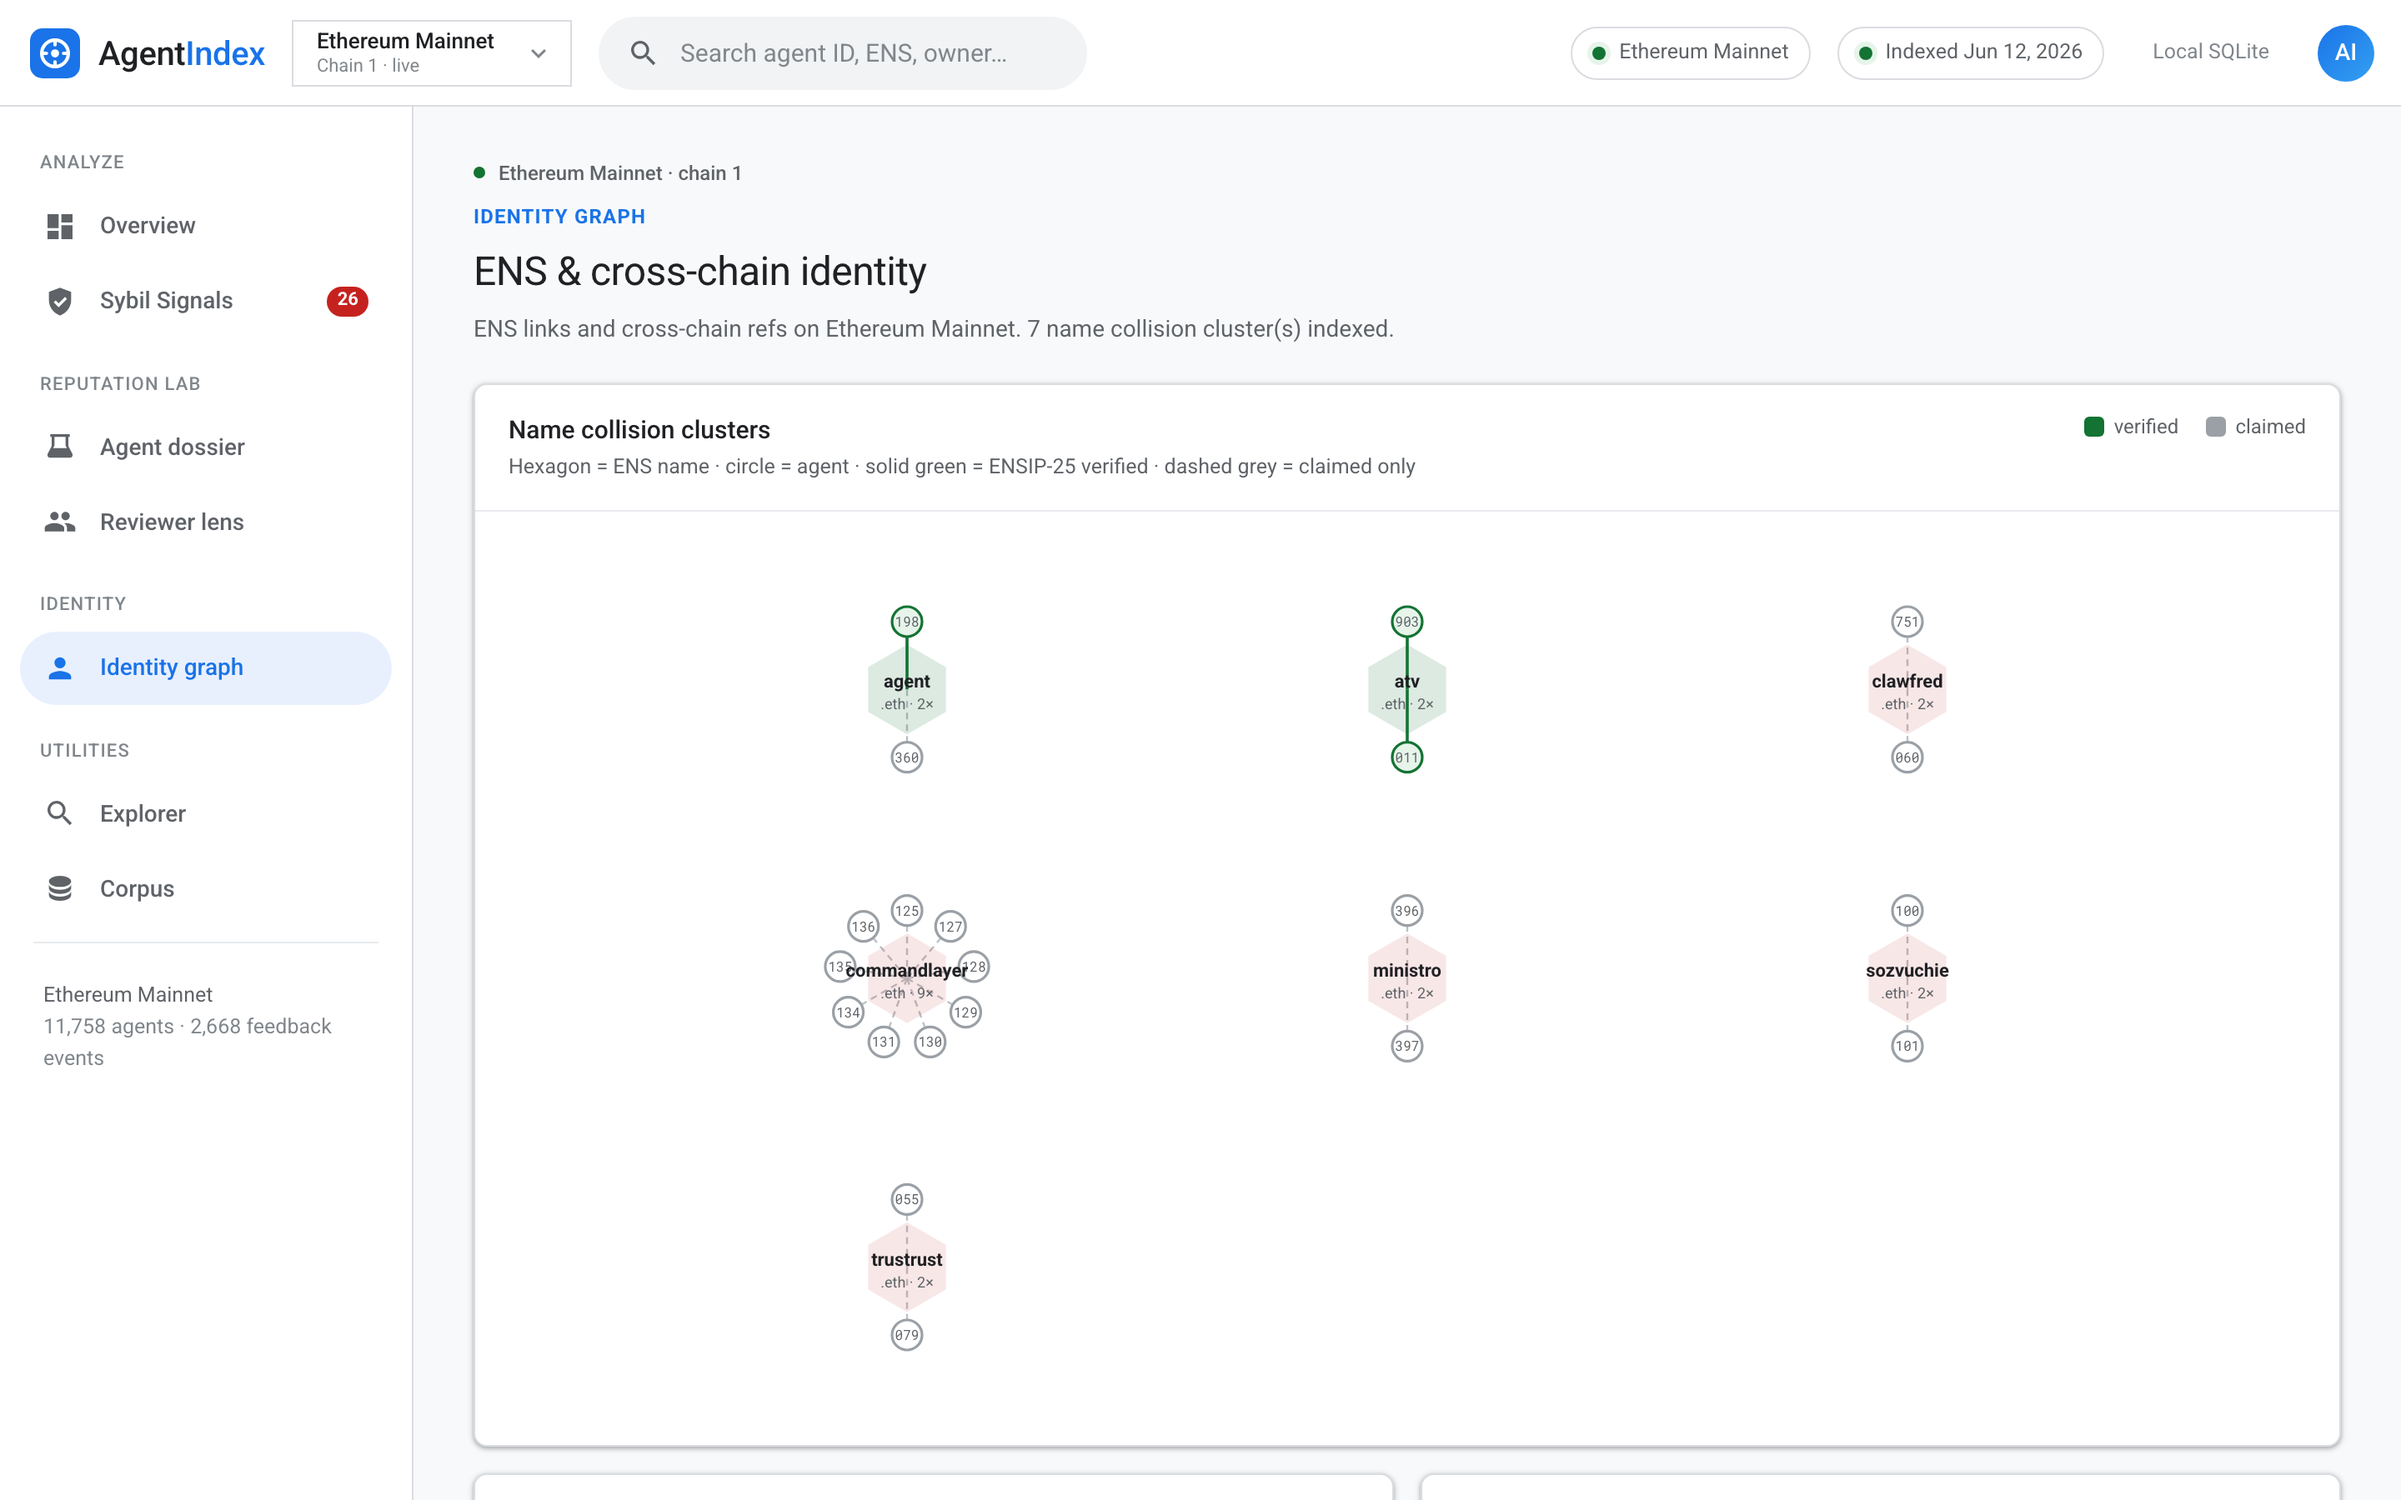
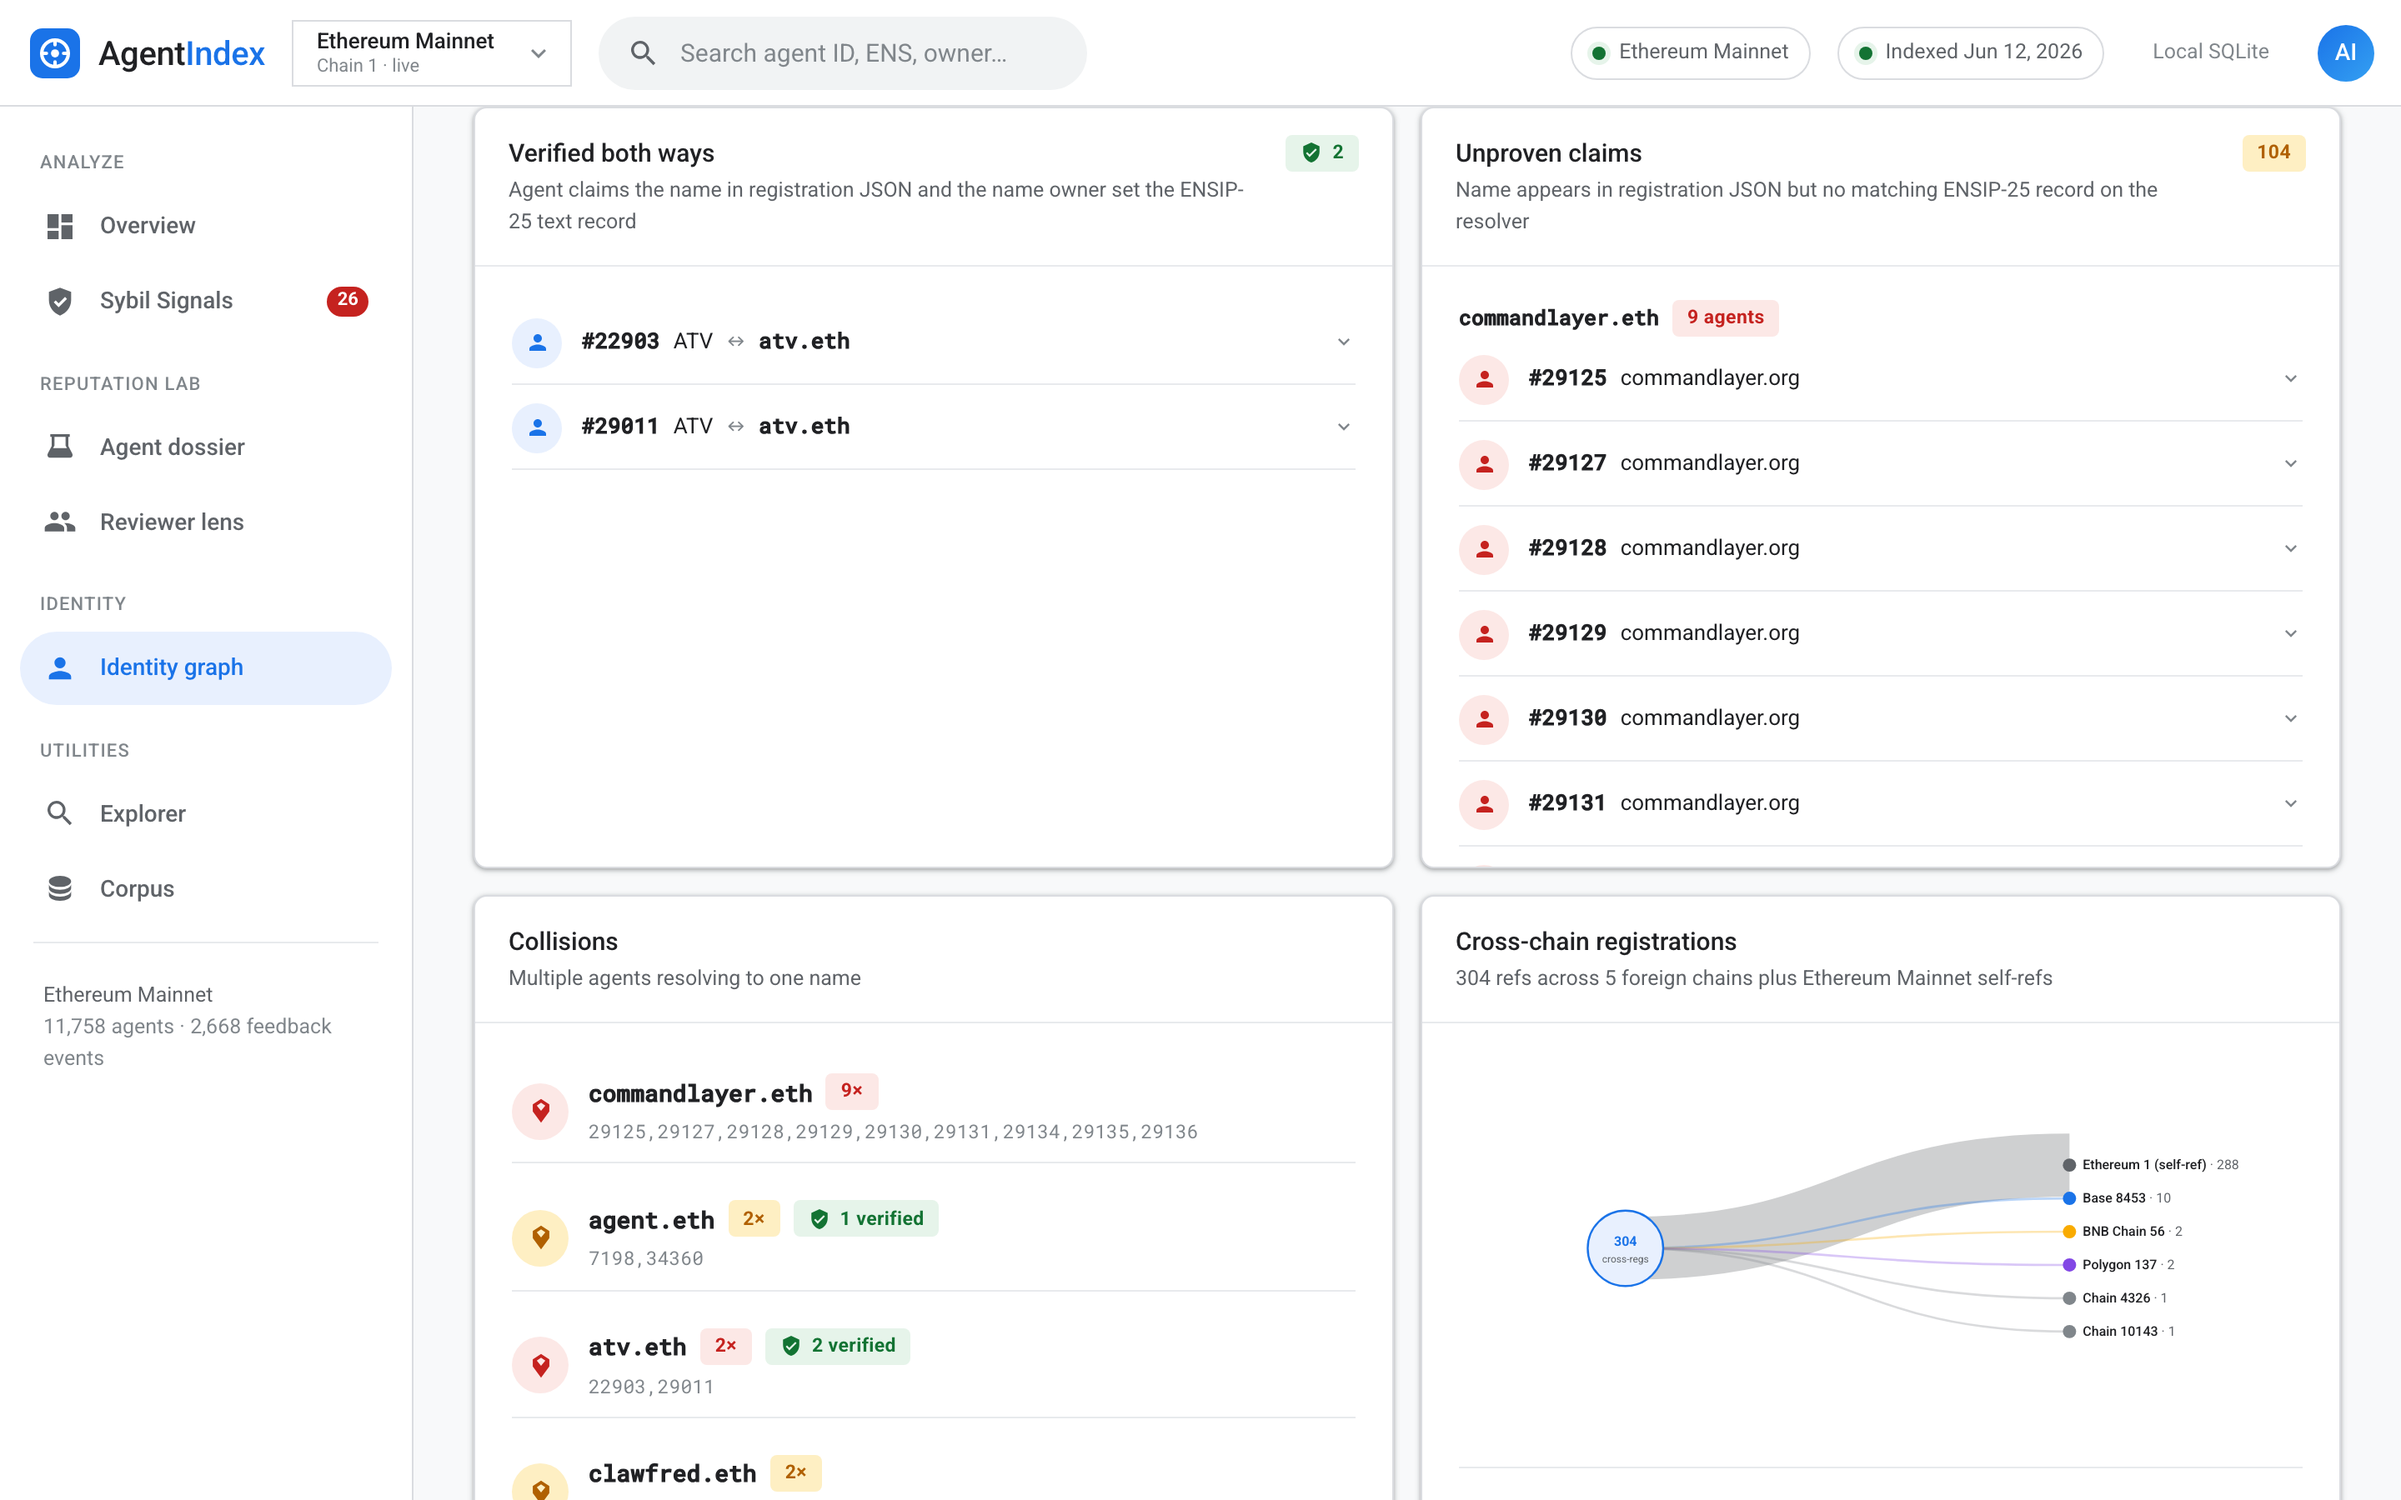
Add proven and unproven ENS claim panels to Identity graph.
Surface bidirectional ENSIP-25 verification alongside JSON-only claims so spray patterns like commandlayer.eth are visible at a glance.

diff --git a/frontend/screen_identity.jsx b/frontend/screen_identity.jsx
@@ -1,10 +1,57 @@
 /* ============================================================
    AgentIndex: Identity Graph (ENS collisions + cross-chain)
    ============================================================ */
+function EnsLinkRow({agentId, ensName, tone, showEns=true}){
+  const agent = AX.agentById[agentId];
+  const name = agent?.name;
+  return (<div className="flex aic gap12 ens-link-row" style={{padding:'9px 0',borderBottom:'1px solid var(--hairline)',cursor:'pointer'}}
+    onClick={()=>window.AXNAV('dossier',{agent:agentId})}>
+    <div className={'sig-ico sev-'+(tone||'med')} style={{width:30,height:30,flex:'0 0 30px'}}><Icon name="identity" size={15}/></div>
+    <div style={{flex:1,minWidth:0}}>
+      <div className="flex aic gap8 flex-wrap">
+        <span className="mono" style={{fontWeight:700,fontSize:13}}>#{agentId}</span>
+        {name&&<span style={{fontSize:13}}>{name}</span>}
+        {showEns&&<>
+          <span className="faint" style={{fontSize:12}}>↔</span>
+          <span className="mono" style={{fontWeight:600,fontSize:13}}>{ensName}</span>
+        </>}
+      </div>
+    </div>
+    <Icon name="chevron" size={14} className="faint"/>
+  </div>);
+}
+
+function EnsProvenLinks({links}){
+  if(!links.length) return <div className="muted" style={{fontSize:13}}>No agent/name pairs with both a JSON claim and an ENSIP-25 resolver record in this corpus.</div>;
+  return (<div className="col">
+    {links.map(l=><EnsLinkRow key={l.agent_id+'-'+l.ens_name} agentId={l.agent_id} ensName={l.ens_name} tone="low"/>)}
+  </div>);
+}
+
+function EnsUnprovenClaims({claims}){
+  if(!claims.length) return <div className="muted" style={{fontSize:13}}>Every ENS claim in registration JSON has a matching resolver record.</div>;
+  const byName = claims.reduce((m,c)=>{ (m[c.ens_name]=m[c.ens_name]||[]).push(c); return m; },{});
+  const groups = Object.entries(byName).sort((a,b)=> b[1].length - a[1].length || a[0].localeCompare(b[0]));
+  return (<div className="col gap8">
+    {groups.map(([ensName, rows])=>{
+      const spray = rows.length >= 3;
+      return (<div key={ensName}>
+        <div className="flex aic gap8 mb4">
+          <span className="mono" style={{fontWeight:700,fontSize:12.5}}>{ensName}</span>
+          <Tag tone={spray?'red':'amber'}>{rows.length} agent{rows.length>1?'s':''}</Tag>
+        </div>
+        {rows.map(r=><EnsLinkRow key={r.agent_id} agentId={r.agent_id} ensName={ensName} tone={spray?'high':'med'} showEns={false}/>)}
+      </div>);
+    })}
+  </div>);
+}
+
 function ScreenIdentity(){
   const cols = AX.D.ens_name_collisions.slice().sort((a,b)=> b.agent_ids.split(',').length - a.agent_ids.split(',').length);
   const narr = AX.identityNarr || {};
   const callouts = narr.callouts || [];
+  const proven = narr.proven_links || [];
+  const unproven = narr.unproven_claims || [];
 
   return (<div className="view">
     <div className="page-head">
@@ -23,6 +70,23 @@ function ScreenIdentity(){
         </div>}/>
       <div className="card-pad"><IdentityGraph height={520}/></div>
     </Card>
+
+    <div className="grid mb16" style={{gridTemplateColumns:'1fr 1fr'}}>
+      <Card>
+        <CardHead title="Verified both ways"
+          sub="Agent claims the name in registration JSON and the name owner set the ENSIP-25 text record"
+          right={<Tag tone="green" icon="verified">{narr.proven_count ?? proven.length}</Tag>}/>
+        <div className="card-pad"><EnsProvenLinks links={proven}/></div>
+      </Card>
+      <Card>
+        <CardHead title="Unproven claims"
+          sub="Name appears in registration JSON but no matching ENSIP-25 record on the resolver"
+          right={<Tag tone="amber">{narr.unproven_count ?? unproven.length}</Tag>}/>
+        <div className="card-pad" style={{maxHeight:360,overflowY:'auto'}}>
+          <EnsUnprovenClaims claims={unproven}/>
+        </div>
+      </Card>
+    </div>
 
     <div className="grid" style={{gridTemplateColumns:'1fr 1fr'}}>
       <Card>

diff --git a/src/agentindex/frontend/corpus.py b/src/agentindex/frontend/corpus.py
@@ -147,6 +147,36 @@ def ens_name_collisions(conn: sqlite3.Connection) -> list[dict[str, Any]]:
     ]
 
 
+def ens_proven_links(conn: sqlite3.Connection) -> list[dict[str, Any]]:
+    """Agent/name pairs with JSON claim and ENSIP-25 resolver text record."""
+    return [
+        dict(r)
+        for r in conn.execute(
+            """
+            SELECT agent_id, ens_name
+            FROM ens_links
+            WHERE verified=1 AND claimed=1
+            ORDER BY ens_name, agent_id
+            """
+        )
+    ]
+
+
+def ens_unproven_claims(conn: sqlite3.Connection) -> list[dict[str, Any]]:
+    """Claimed in registration JSON but no ENSIP-25 back-link on the resolver."""
+    return [
+        dict(r)
+        for r in conn.execute(
+            """
+            SELECT agent_id, ens_name
+            FROM ens_links
+            WHERE claimed=1 AND verified=0
+            ORDER BY ens_name, agent_id
+            """
+        )
+    ]
+
+
 def review_graph_edges(conn: sqlite3.Connection, *, limit: int = 200) -> list[dict[str, Any]]:
     return [
         dict(r)
@@ -385,6 +415,8 @@ def load_raw_bundle(
         "owner_concentration": owner_concentration(conn),
         "reviewer_profiles": reviewer_profiles(conn),
         "ens_name_collisions": ens_name_collisions(conn),
+        "ens_proven_links": ens_proven_links(conn),
+        "ens_unproven_claims": ens_unproven_claims(conn),
         "review_graph_edges": review_graph_edges(conn),
         "spotlight_agents": build_spotlight_agents(conn),
         "explorer_agents": explorer_agent_entries(conn),

diff --git a/src/agentindex/frontend/analytics.py b/src/agentindex/frontend/analytics.py
@@ -1000,6 +1000,9 @@ def build_identity_narratives(
         fields=("text",),
     )
 
+    proven = raw.get("ens_proven_links") or []
+    unproven = raw.get("ens_unproven_claims") or []
+
     return {
         "page": {
             "title": tpl["page"]["title"],
@@ -1010,6 +1013,10 @@ def build_identity_narratives(
             ),
         },
         "callouts": callouts,
+        "proven_links": proven,
+        "unproven_claims": unproven,
+        "proven_count": len(proven),
+        "unproven_count": len(unproven),
         "cross_chain_callout": cross_chain,
         "cross_chain_subtitle": subtitle_bundle["text"] if subtitle_bundle else "",
         "cross_chain_flow": build_cross_chain_flow(
